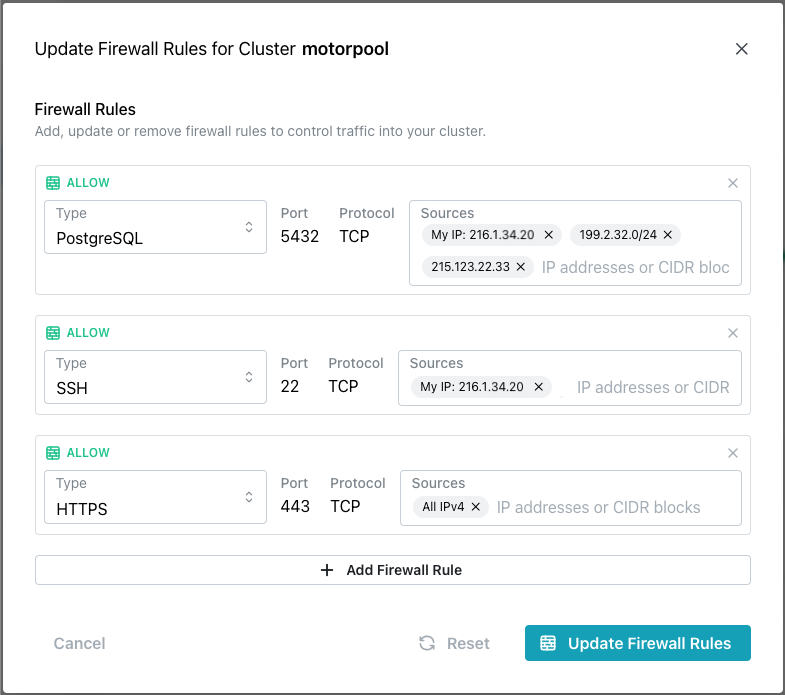
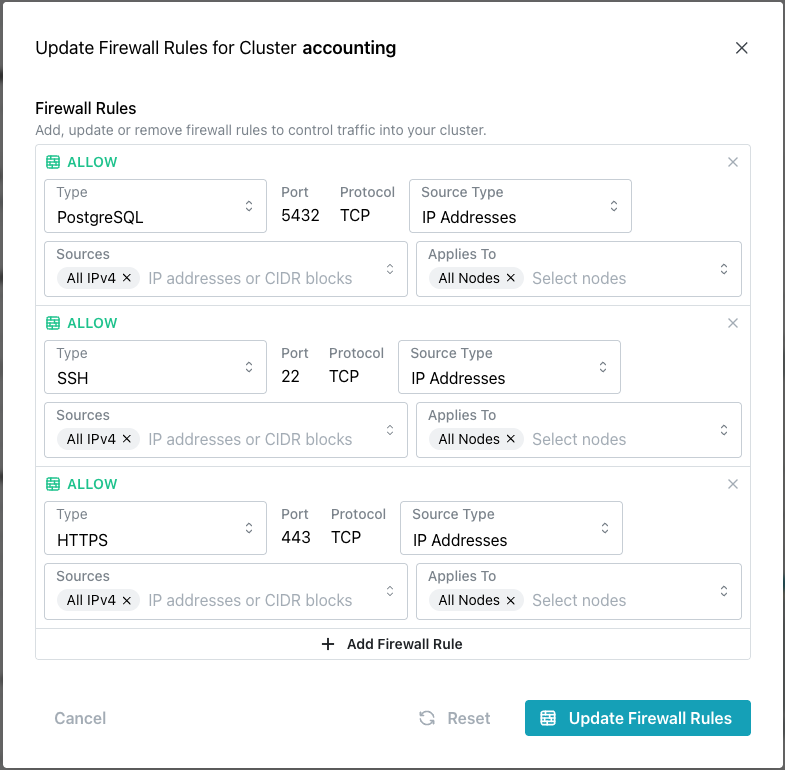
Updating firewall related content

diff --git a/docs/cloud/cluster/firewall.md b/docs/cloud/cluster/firewall.md
@@ -1,28 +1,54 @@
 # Adding or Modifying Firewall Rules
 
-When you create a Cloud cluster, you can provide firewall rules that define the IP addresses or CIDR blocks that are allowed to connect to your cluster. To add or modify a cluster's firewall rules, highlight the name of a cluster in the navigation tree and select `Update Firewall Rules` from the [`Actions`](https://pgedge-docs-sandbox.pages.dev/cloud/mod_cluster/actions) drop-down menu.
+When you create a Cloud cluster, you can provide firewall rules that define
+the IP addresses or CIDR blocks that are allowed to connect to your cluster.
+To add or modify a cluster's firewall rules, highlight the name of a cluster
+in the navigation tree and select `Update Firewall Rules` from the
+[`Actions`](https://pgedge-docs-sandbox.pages.dev/cloud/mod_cluster/actions)
+drop-down menu.
 
-![Updating Firewall Rules](../images/firewall_update.png)
+![Displaying Firewall Rules](../images/firewall_update.png)
 
-The Firewall Rules popup displays the currently defined rules for your cluster. You can click the `+ Add Firewall Rule` bar to open a new line (as shown below) and add a new firewall rule, or modify the current rules:
+The Firewall Rules popup displays the currently defined rules for your
+cluster. You can click the `+ Add Firewall Rule` bar to open a new line (as
+shown below) and add a new firewall rule, or modify the current rules:
 
 ![Updating Firewall Rules](../images/firewall_new_line.png)
 
 To add or modify a firewall rule:
 
-* Use the `Type` selector in the left column to specify the incoming connection type. You can create a rule that connects with:
+* Use the `Type` selector in the left column to specify the incoming
+  connection type. You can create a rule that connects with:
 
   * A Postgres client like pgAdmin or psql on port `5432`.
   * An SSH client on port `22`.
   * An HTTPS client on port `443`.
 
-* Use the `Sources` field in the right column to add or remove the IP address(es) or [CIDR block(s)](https://www.postgresql.org/docs/17/datatype-net-types.html#DATATYPE-CIDR) that will be allowed to connect via the connection `Type` specified in the left column. 
+* Use the `Source Type` selector in the right column to specify the type of
+  connection source that is allowed to connect with this rule. You can choose
+  from the following options:
 
-  * To remove an address, click the `X` to the right of the address in the `Sources` field. 
-  * To add an address, click in the Sources field and select from the predefined options, or type directly in the field. After entering each address, hit `Enter` to confirm the addition; you can then add another address to the `Sources` field, or select `+ Add Firewall Rule` to open another line for entries.  
+  * An IP address, specifying a single host or CIDR block.
+  * A prefix list, specifying a managed set of CIDR blocks.
+  * A security group, specifying a set of AWS instances.
 
-When you're finished, select `Update Firewall Rules` to modify your cluster's firewall. While the firewall is being modified, a blue dot to the left of the cluster name indicates that the changes are being applied. During this time, your cluster remains available for connections, but you must wait to make further modifications to the cluster definition.
+* Use the `Sources` field in the left column to specify details about the
+  connection source that will be allowed access to your cluster with the rule.
 
-!!! info
+  * To remove a source, click the `X` in the rule's `Sources` field. 
+  * To add a source, click in the `Sources` field and select from the
+    predefined options, or type directly in the field.
 
-    When specifying a CIDR block, append the number of bits in the netmask after the address block; for example, the address `10.1.2.0/24` specifies that anyone connecting from an IP address that starts with the prefix `10.1.2` can connect.
+* Use the `Applies To` selector to choose the node or nodes to which the
+  rule applies.
+
+When you're finished, select `Update Firewall Rules` to modify your cluster's
+firewall. While the firewall is being modified, a blue dot to the left of the
+cluster name indicates that the changes are being applied. During this time,
+your cluster remains available for connections, but you must wait to make
+further modifications to the cluster definition.
+
+!!! note
+
+    Duplicate firewall rules are not allowed; you will receive a message if
+    any of your rules duplicate previously defined rules.

diff --git a/docs/cloud/cluster/create_cluster.md b/docs/cloud/cluster/create_cluster.md
@@ -112,23 +112,31 @@ rule.
 * Use the `Type` drop-down to select the connection type you are defining:
 
     * Select `PostgreSQL` to create a connection to port `5432`; this is
-      the port used by connecting clients that wish to query the database.
-
+      the default port used by connecting clients that wish to query the
+      database.
     * Select `HTTPS` to open port `443` for secure communication between
       PostgreSQL and a web server.
-
     * Select `SSH` to open port `22` for SSH connections.
 
-* Use the `Sources` drop-down to select the IP address(es) that will be
-  allowed to connect to the port.
+* Use the `Source Type` selector in the right column to specify the type of
+  connection source that is allowed to connect with this rule. You can choose
+  from the following options:
 
-    * Choose `My IP:x.x.x.x` to open a port for the detected IP address
-      from which you are connected.
-    * Choose `All IPV4` to allow connections to the selected port from any
-      source. This setting is not recommended for connections to the
-      database server.
+  * An IP address, specifying a single host or CIDR block.
+  * A prefix list, specifying a managed set of CIDR blocks.
+  * A security group, specifying a set of AWS instances.
 
-After selecting a protocol type and an address, choose the `+ Add Rule`
+* Use the `Sources` field in the left column to specify details about the
+  connection source that will be allowed access to your cluster with the rule.
+
+  * To remove a source, click the `X` in the rule's `Sources` field. 
+  * To add a source, click in the `Sources` field and select from the
+    predefined options, or type directly in the field.
+
+* Use the `Applies To` selector to choose the node or nodes to which the
+  rule applies.
+
+After providing rule details, choose the `+ Add Rule`
 button to add the list of firewall rules. To remove a rule from the list,
 select the `X` in the upper-right corner of the rule box.
 
